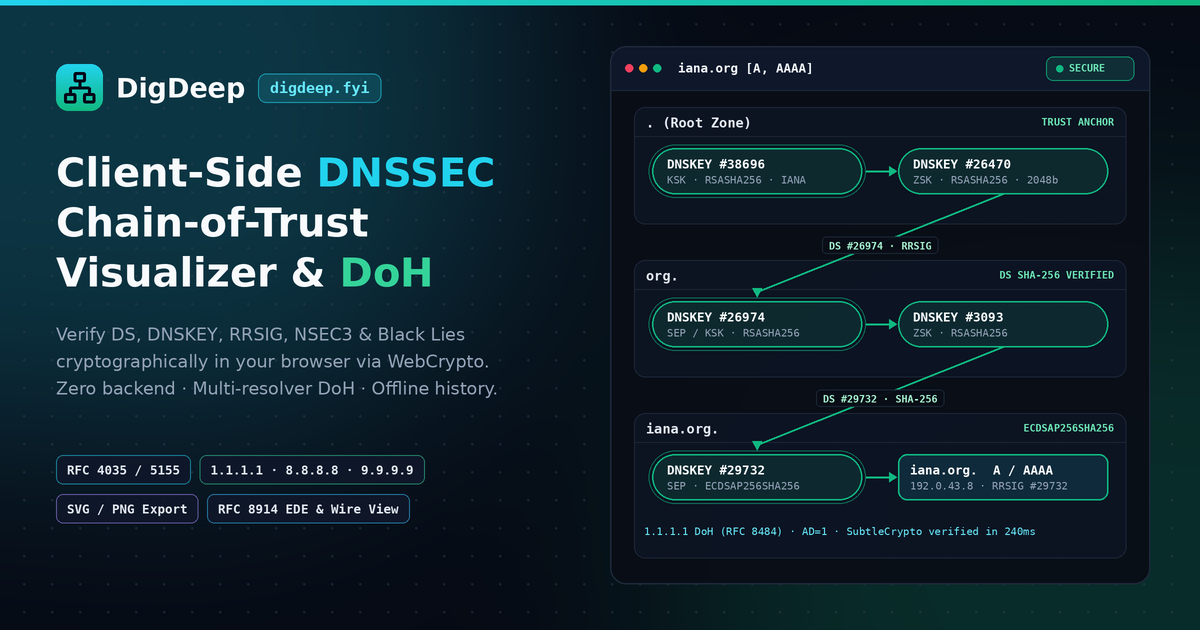
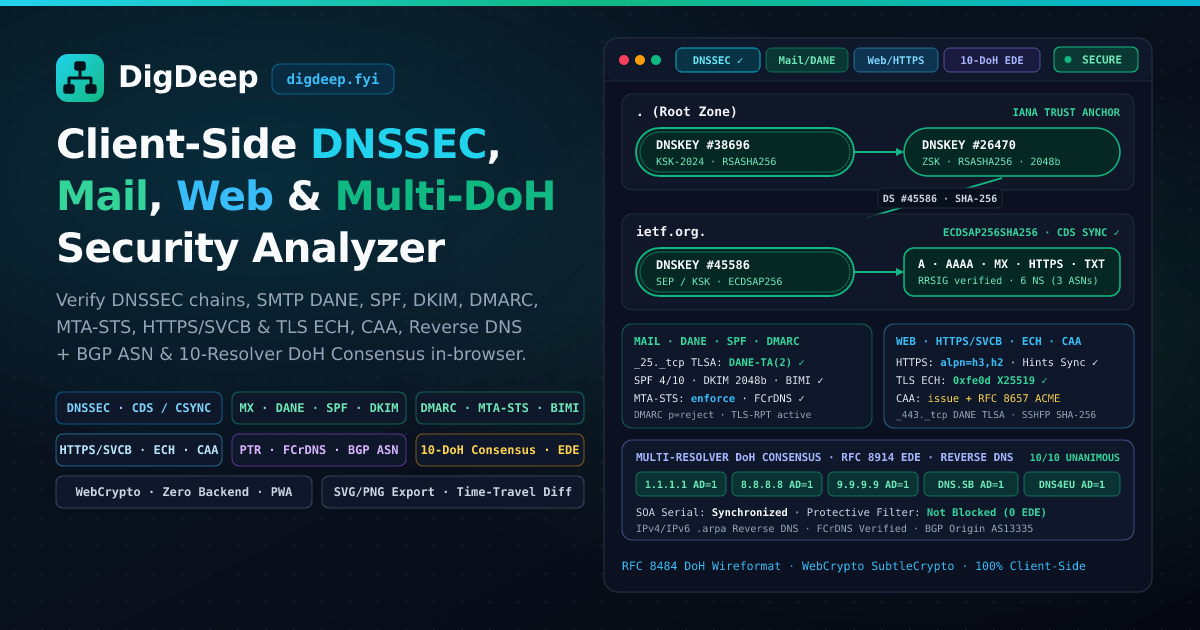
Update README.md, OpenGraph metadata, and og-card.png to showcase all analysis modes

Changed region(s): [[0.0308, 0.0603, 1.0, 1.0], [0.0, 0.0, 0.6475, 0.0905], [0.7708, 0.0, 1.0, 0.0302]]

diff --git a/index.html b/index.html
@@ -11,14 +11,14 @@
     <meta name="apple-mobile-web-app-title" content="DigDeep" />
     <meta name="application-name" content="DigDeep" />
 
-    <title>DigDeep — Client-Side DNSSEC, MX, DANE, SPF, DKIM &amp; DMARC Analyzer</title>
+    <title>DigDeep — Client-Side DNSSEC, Mail, Web/HTTPS &amp; Multi-DoH Analyzer</title>
     <meta
       name="description"
-      content="Interactive client-side DNSSEC chain-of-trust visualizer, MX &amp; SMTP DANE (TLSA) validator, SPF 10-lookup auditor, DKIM key &amp; DMARC policy checker, and DNS-over-HTTPS (DoH) wire packet inspector directly in your browser."
+      content="Interactive client-side DNSSEC chain-of-trust visualizer, Mail (MX, SMTP DANE, SPF, DKIM, DMARC, MTA-STS, BIMI) validator, Web/HTTPS (SVCB, TLS ECH, CAA, DANE, SSHFP) auditor, IPv4/IPv6 Reverse DNS + BGP ASN inspector, and Multi-Resolver DoH Consensus (RFC 8914 EDE) analyzer directly in your browser."
     />
     <meta
       name="keywords"
-      content="DNSSEC visualizer, DNSViz alternative, SMTP DANE checker, TLSA validator, SPF checker, DKIM checker, DMARC analyzer, MX analyzer, DNS over HTTPS, DoH inspector, RRSIG verification, dig online"
+      content="DNSSEC visualizer, DNSViz alternative, SMTP DANE checker, TLSA validator, SPF checker, DKIM checker, DMARC analyzer, MTA-STS checker, HTTPS SVCB ECH, CAA checker, RFC 8914 EDE, DNS over HTTPS, DoH inspector, RRSIG verification, reverse DNS PTR FCrDNS"
     />
     <meta name="robots" content="index, follow, max-image-preview:large, max-snippet:-1" />
     <link rel="canonical" href="https://digdeep.fyi/" />
@@ -30,11 +30,11 @@
     <meta property="og:url" content="https://digdeep.fyi/" />
     <meta
       property="og:title"
-      content="DigDeep — Client-Side DNSSEC Visualizer &amp; DoH Wire Inspector"
+      content="DigDeep — Client-Side DNSSEC, Mail, Web/HTTPS &amp; Multi-DoH Analyzer"
     />
     <meta
       property="og:description"
-      content="Verify DS, DNSKEY, RRSIG, NSEC/NSEC3 &amp; Black Lies cryptographically in your browser via WebCrypto and RFC 8484 DoH (1.1.1.1, 8.8.8.8, 9.9.9.9, DNS4EU). Zero backend."
+      content="Verify DNSSEC (DS/DNSKEY/RRSIG/NSEC3/CDS), Mail (MX/DANE/SPF/DKIM/DMARC/MTA-STS), Web (HTTPS/SVCB/ECH/CAA/SSHFP), Reverse DNS + BGP ASN &amp; 10-Resolver DoH Consensus (RFC 8914 EDE) in your browser."
     />
     <meta property="og:image" content="https://digdeep.fyi/og-card.png" />
     <meta property="og:image:type" content="image/png" />
@@ -42,7 +42,7 @@
     <meta property="og:image:height" content="630" />
     <meta
       property="og:image:alt"
-      content="DigDeep interactive DNSSEC chain-of-trust graph from IANA Root KSK through org. to iana.org verified in-browser via 1.1.1.1 DoH"
+      content="DigDeep client-side DNSSEC, Mail (MX/DANE/SPF/DKIM/DMARC/MTA-STS), Web (HTTPS/ECH/CAA), Reverse DNS &amp; Multi-DoH Consensus analyzer"
     />
 
     <!-- Twitter / X Large Summary Card -->
@@ -50,11 +50,11 @@
     <meta name="twitter:url" content="https://digdeep.fyi/" />
     <meta
       name="twitter:title"
-      content="DigDeep — Client-Side DNSSEC Visualizer &amp; DoH Wire Inspector"
+      content="DigDeep — Client-Side DNSSEC, Mail, Web/HTTPS &amp; Multi-DoH Analyzer"
     />
     <meta
       name="twitter:description"
-      content="100% browser-side DNSSEC chain-of-trust graph, RRSIG WebCrypto validator, snapshot diffing &amp; RFC 8484 DoH packet inspector."
+      content="100% browser-side DNSSEC chain graph, Mail (DANE/SPF/DKIM/DMARC/MTA-STS), Web (HTTPS/ECH/CAA), Reverse DNS + BGP ASN &amp; Multi-DoH RFC 8914 EDE Consensus."
     />
     <meta name="twitter:image" content="https://digdeep.fyi/og-card.png" />
     <meta
@@ -101,11 +101,13 @@
         "featureList": [
           "100% client-side DNSSEC validation using browser SubtleCrypto",
           "Interactive chain-of-trust SVG and high-DPI PNG graph export",
-          "Multi-resolver RFC 8484 DoH wireformat inspection (Cloudflare 1.1.1.1, Google 8.8.8.8, Quad9 9.9.9.9, DNS4EU)",
+          "Multi-resolver RFC 8484 DoH Consensus matrix & RFC 8914 Extended DNS Error (EDE) protective filtering check across 10 public & protective resolvers",
           "RSASHA1, RSASHA256, RSASHA512, ECDSAP256SHA256, ECDSAP384SHA384, and ED25519 signature verification",
           "NSEC, NSEC3 Opt-Out, wildcard synthesis, and Compact Denial of Existence (Black Lies) proofs",
-          "RFC 8914 Extended DNS Error (EDE) diagnostics, time-travel RRSIG clock override, and snapshot diffing",
-          "MX mail routing, RFC 7671/7672 SMTP DANE (_25._tcp TLSA) verification, RFC 7208 recursive SPF 10-lookup auditing, RFC 6376/8301/8463 DKIM key inspection, and RFC 7489/9091 DMARC policy analysis"
+          "CDS / CDNSKEY (RFC 7344/8078) & CSYNC (RFC 7477) rollover synchronization, NS BGP ASN diversity, SOA timer audit, and dangling NS/CNAME takeover detection",
+          "MX mail routing, RFC 7671/7672 SMTP DANE (_25._tcp TLSA) verification, RFC 7208 recursive SPF 10-lookup auditing, RFC 6376/8301/8463 DKIM key inspection, RFC 7489/9091 DMARC policy analysis, MTA-STS (RFC 8461), TLS-RPT (RFC 8460), and BIMI",
+          "Web & HTTPS analysis: HTTPS/SVCB (RFC 9460), TLS ECHConfigList decoding, ipv4hint/ipv6hint drift, tree-walking CAA (RFC 8659/8657 ACME bindings), _443._tcp DANE TLSA, and SSHFP (RFC 4255)",
+          "IPv4 and IPv6 Reverse DNS (in-addr.arpa / ip6.arpa) chain verification, Forward-Confirmed Reverse DNS (FCrDNS), and Team Cymru BGP ASN lookup"
         ],
         "potentialAction": {
           "@type": "SearchAction",

diff --git a/README.md b/README.md
@@ -1,24 +1,81 @@
-# DigDeep — Client-Side DNSSEC Visualizer (`1.1.1.1` DoH)
+# DigDeep — Client-Side DNSSEC, Mail, Web/HTTPS & Multi-DoH Analyzer
 
-A modern, client-side re-imagining of **DNSViz** that performs all DNS resolution, RFC 4034/4035/5155 cryptographic verification, chain-of-trust graph layout, and historical snapshot management directly in the browser.
+[![Live App](https://img.shields.io/badge/Live_App-digdeep.fyi-06b6d4?style=flat-square)](https://digdeep.fyi/)
 
-## Highlights
+**DigDeep** ([digdeep.fyi](https://digdeep.fyi/)) is a 100% client-side DNS security analyzer, **DNSViz** chain-of-trust visualizer, and **RFC 8484 DNS-over-HTTPS (DoH)** wire packet inspector that runs entirely in the browser using **WebCrypto (`SubtleCrypto`)** with zero backend servers.
 
-- **100% Client-Side DNSSEC Validation**: Uses WebCrypto (`SubtleCrypto`) in the browser to cryptographically verify `DS` → `DNSKEY` digests (SHA-1, SHA-256, SHA-384) and canonical wireformat `RRSIG` signatures (`RSASHA1`, `RSASHA256`, `RSASHA512`, `ECDSAP256SHA256`, `ECDSAP384SHA384`, `ED25519`), wildcard synthesis, and `NSEC` / `NSEC3` (including Opt-Out and Compact Denial of Existence) proofs.
-- **Cloudflare `1.1.1.1` DoH Wireformat**: Speaks RFC 8484 (`application/dns-message`) directly to `https://1.1.1.1/dns-query` with `DO=1` and `CD=1` (plus a side-by-side `CD=0` `AD`-bit & RFC 8914 Extended DNS Error check).
-- **Interactive Chain-of-Trust Graph**: Pan/zoom hierarchical zone containers, double-ring SEP/KSK/Trust Anchor capsules, phantom missing-key nodes (e.g. `dnssec-failed.org`), cross-zone CNAME arcs (e.g. `www.iana.org`), deep cryptographic node/edge inspector, and standalone **SVG / PNG** diagram export.
-- **Browser `localStorage` History & Snapshot Diff**: Automatically archives historical analyses in `localStorage` with pin protection, storage quota meter, JSON export/import, offline RRSIG time-travel re-validation, and side-by-side snapshot diffing (SOA serial bumps, DNSKEY/DS rollovers, RRset changes).
+![DigDeep OpenGraph Card](./public/og-card.png)
 
-## Quick Start
+---
+
+## Analysis Modes & Capabilities
+
+### 1. DNSSEC Chain-of-Trust Visualizer (`?mode=dnssec`)
+- **100% In-Browser Cryptographic Verification**: Uses `SubtleCrypto` to verify `DS` → `DNSKEY` digests (`SHA-1`, `SHA-256`, `SHA-384`) from the IANA Root KSK trust anchors (`#38696` KSK-2024 & `#20326` KSK-2017) and canonical wireformat `RRSIG` signatures (`RSASHA1`, `RSASHA256`, `RSASHA512`, `ECDSAP256SHA256`, `ECDSAP384SHA384`, `ED25519`).
+- **Authenticated Denial of Existence**: Validates `NSEC` and `NSEC3` (including `Opt-Out`, RFC 9276 iteration count audits, wildcard synthesis, and Compact Denial of Existence / Cloudflare *Black Lies*).
+- **Key Rollover & Zone Resilience Audit**:
+  - Audits **`CDS` / `CDNSKEY` (RFC 7344 / RFC 8078)** and **`CSYNC` (RFC 7477)** records against parent `DS` records to detect pending KSK rollovers or unapplied `DS` updates.
+  - Evaluates **Authoritative Nameserver BGP ASN & Subnet Diversity** (`single-asn` SPOF warnings), **SOA Timer Compliance** (RFC 1912 / RFC 4035), and **Dangling `NS` / `CNAME` Subdomain Takeover** risks.
+- **Interactive DAG Graph & Export**: Pan/zoom hierarchical zone containers, double-ring SEP/KSK capsules, phantom missing-key nodes (e.g. `dnssec-failed.org`), cross-zone `CNAME` arcs (e.g. `www.iana.org`), time-travel RRSIG clock override, and standalone **SVG / high-DPI PNG** export.
+
+### 2. Mail, SMTP DANE, SPF, DKIM, DMARC, MTA-STS & BIMI (`?mode=mail`)
+- **MX Routing & FCrDNS**: Resolves `MX` priorities, `A`/`AAAA` addresses, reverse `PTR` records, and Forward-Confirmed Reverse DNS (`FCrDNS`) per mail exchanger.
+- **SMTP DANE (`_25._tcp.<mx>` `TLSA` — RFC 7671 / RFC 7672)**: Validates `TLSA` records across every `MX` host, enforces mandatory DNSSEC chain-of-trust prerequisites, and highlights `DANE-TA(2)` / `DANE-EE(3)` operational best practices.
+- **Recursive SPF (`v=spf1` — RFC 7208)**: Recursively walks `include:`, `redirect=`, `a`, `mx`, `ptr`, and `exists` mechanisms to audit the strict **10-DNS-lookup limit**, void-lookup limit, and `all` qualifier strength.
+- **DKIM (`<selector>._domainkey` — RFC 6376 / RFC 8301 / RFC 8463)**: Auto-discovers common selectors (plus custom selector input), follows cross-zone `CNAME` delegations, and inspects RSA key bit lengths (`1024` / `2048` / `4096`-bit) and `ed25519` keys.
+- **DMARC (`_dmarc` — RFC 7489 / RFC 9091)**: Audits `p=`, `sp=`, `pct=`, `adkim=`, `aspf=`, `rua=`, and `ruf=`, and verifies external report destination authorization (`<domain>._report._dmarc.<host>`).
+- **MTA-STS (`_mta-sts` — RFC 8461), TLS-RPT (`_smtp._tls` — RFC 8460) & BIMI (`default._bimi`)**: Inspects `_mta-sts` DNS records and fetches `/.well-known/mta-sts.txt` policy files to verify `mode: enforce` and `mx:` pattern coverage.
+
+### 3. Web, HTTPS/SVCB, TLS ECH, CAA, Web DANE & SSHFP (`?mode=web`)
+- **`HTTPS` (`TYPE65`) & `SVCB` (`TYPE64` — RFC 9460)**: Decodes ServiceMode and AliasMode records, `alpn` (`h3` HTTP/3 QUIC, `h2`), `mandatory`, `port`, and checks **`ipv4hint` / `ipv6hint` IP drift** against apex `A`/`AAAA` records.
+- **TLS Encrypted ClientHello (`ech` SvcParamKey 5)**: Parses binary `ECHConfigList` structures (`0xfe0d` Draft-13) to surface outer SNI `public_name`, HPKE KEM (`DHKEM(X25519, HKDF-SHA256)`), KDF, and AEAD cipher suites.
+- **Tree-Walking `CAA` (`TYPE257` — RFC 8659 & RFC 8657)**: Walks from the target domain up to the zone apex to discover effective CA authorization (`issue`, `issuewild`, `iodef`, `contactemail`) and **RFC 8657 ACME account/method bindings** (`accounturi`, `validationmethods=dns-01`).
+- **Web DANE (`_443._tcp` `TLSA` — RFC 6698) & `SSHFP` (`TYPE44` — RFC 4255/8709)**: Verifies HTTPS DANE bindings and SSH host key fingerprints (`Ed25519`, `ECDSA`, `RSA` with `SHA-256`).
+
+### 4. Multi-Resolver DoH Consensus & Protective Filtering (`?mode=consensus`)
+- **10-Resolver Parallel DoH Matrix**: Queries `A`, `AAAA`, `SOA`, `DNSKEY`, and `DS` concurrently across **Unfiltered** (`Cloudflare 1.1.1.1`, `Google 8.8.8.8`, `Quad9 Unfiltered 9.9.9.10`, `DNS.SB`, `DNS4EU Unfiltered`), **Threat-Blocking Protective** (`Cloudflare 1.1.1.2`, `Quad9 9.9.9.9`, `DNS4EU Protective`), and **Family / Ad-Blocking** (`Cloudflare 1.1.1.3`, `DNS4EU Child + NoAds`) resolvers.
+- **RFC 8914 Extended DNS Error (`EDE`) & Sinkhole Detection**: Distinguishes **DNSSEC Bogus failures** (`EDE 6..12`), **Protective Policy Blocking** (`EDE 4, 15, 16, 17, 18` or sinkhole IPs `0.0.0.0` / `::` / `127.0.0.1`), and **Upstream Reachability** (`EDE 22, 23`).
+- **Propagation & Key Rollover Skew**: Detects `SOA` serial propagation skew, `DNSKEY` key-tag rollover skew, `AD`-bit inconsistencies, and GeoDNS / CDN anycast steering.
+
+### 5. IPv4 / IPv6 Reverse DNS (`.arpa`), FCrDNS & BGP ASN Lookup
+- Enter any IPv4 (`1.1.1.1`, `9.9.9.9`) or IPv6 (`2606:4700:4700::1111`) address in the search bar to automatically convert to `in-addr.arpa.` / `ip6.arpa.`, validate the `.arpa.` DNSSEC chain, verify **Forward-Confirmed Reverse DNS (`FCrDNS`)**, and query **Team Cymru BGP ASN / Prefix / RIR / Organization** metadata.
+
+---
+
+## Deep-Link URL Parameters
+
+Every analysis state is shareable via URL query parameters:
+
+| Parameter | Description | Example |
+| :--- | :--- | :--- |
+| `name` | Domain name or IPv4/IPv6 address | `?name=cloudflare.com` or `?name=1.1.1.1` |
+| `mode` | Analysis mode (`dnssec`, `mail`, `web`, `consensus`) | `?name=ietf.org&mode=mail` |
+| `types` | Comma-separated RR types (for `dnssec` mode) | `?name=iana.org&types=A,AAAA,DNSKEY` |
+| `doh` | DoH resolver preset or custom HTTPS URL | `?name=iana.org&doh=9.9.9.9` |
+| `dkim` | Custom DKIM selectors (for `mail` mode) | `?name=ietf.org&mode=mail&dkim=ietf1` |
+| `tab` | Active view tab (`graph`, `mail`, `web`, `consensus`, `audit`, `responses`, `zones`) | `?name=dnssec-failed.org&tab=audit` |
+
+---
+
+## Development & Testing
 
 ```bash
+# Install dependencies
 npm install
+
+# Start Vite development server
 npm run dev
+
+# Run Vitest unit + live DoH test suite
+npm test
+
+# Type-check and build production bundle
+npm run build
 ```
 
-Run the test suite and production build:
+On NixOS / Nix environments, use the included `shell.nix`:
 
 ```bash
-npm test
-npm run build
+nix-shell --run "npm test"
+nix-shell --run "npm run build"
 ```
